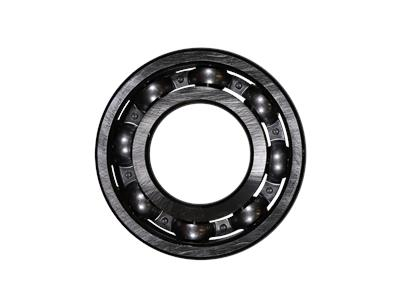
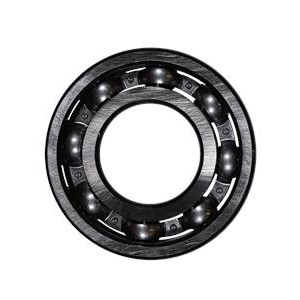
Update dynamische Fotoanzeige auf SKU Details Seiten

Changed region(s): [[0.15, 0.15, 0.87, 0.87]]

diff --git a/sku_details.php b/sku_details.php
@@ -116,9 +116,10 @@
     <main>
         <div class="product-content">
             <div class="product">
-                <div class="product-image">
-                    <img src="product0001.jpg" alt="Produkt 0001" width="150" height="150">
-                </div>
+                <?php echo '<div class="product-image">
+                                <img src="images/' . htmlspecialchars($skuDB->SKUNr) . '.jpg" alt="Produkt ' . htmlspecialchars($skuDB->SKUNr) . '" width="150" height="150">
+                            </div> '
+                            ?>
                 <div class="product-details">
                     <?php
                         echo '
